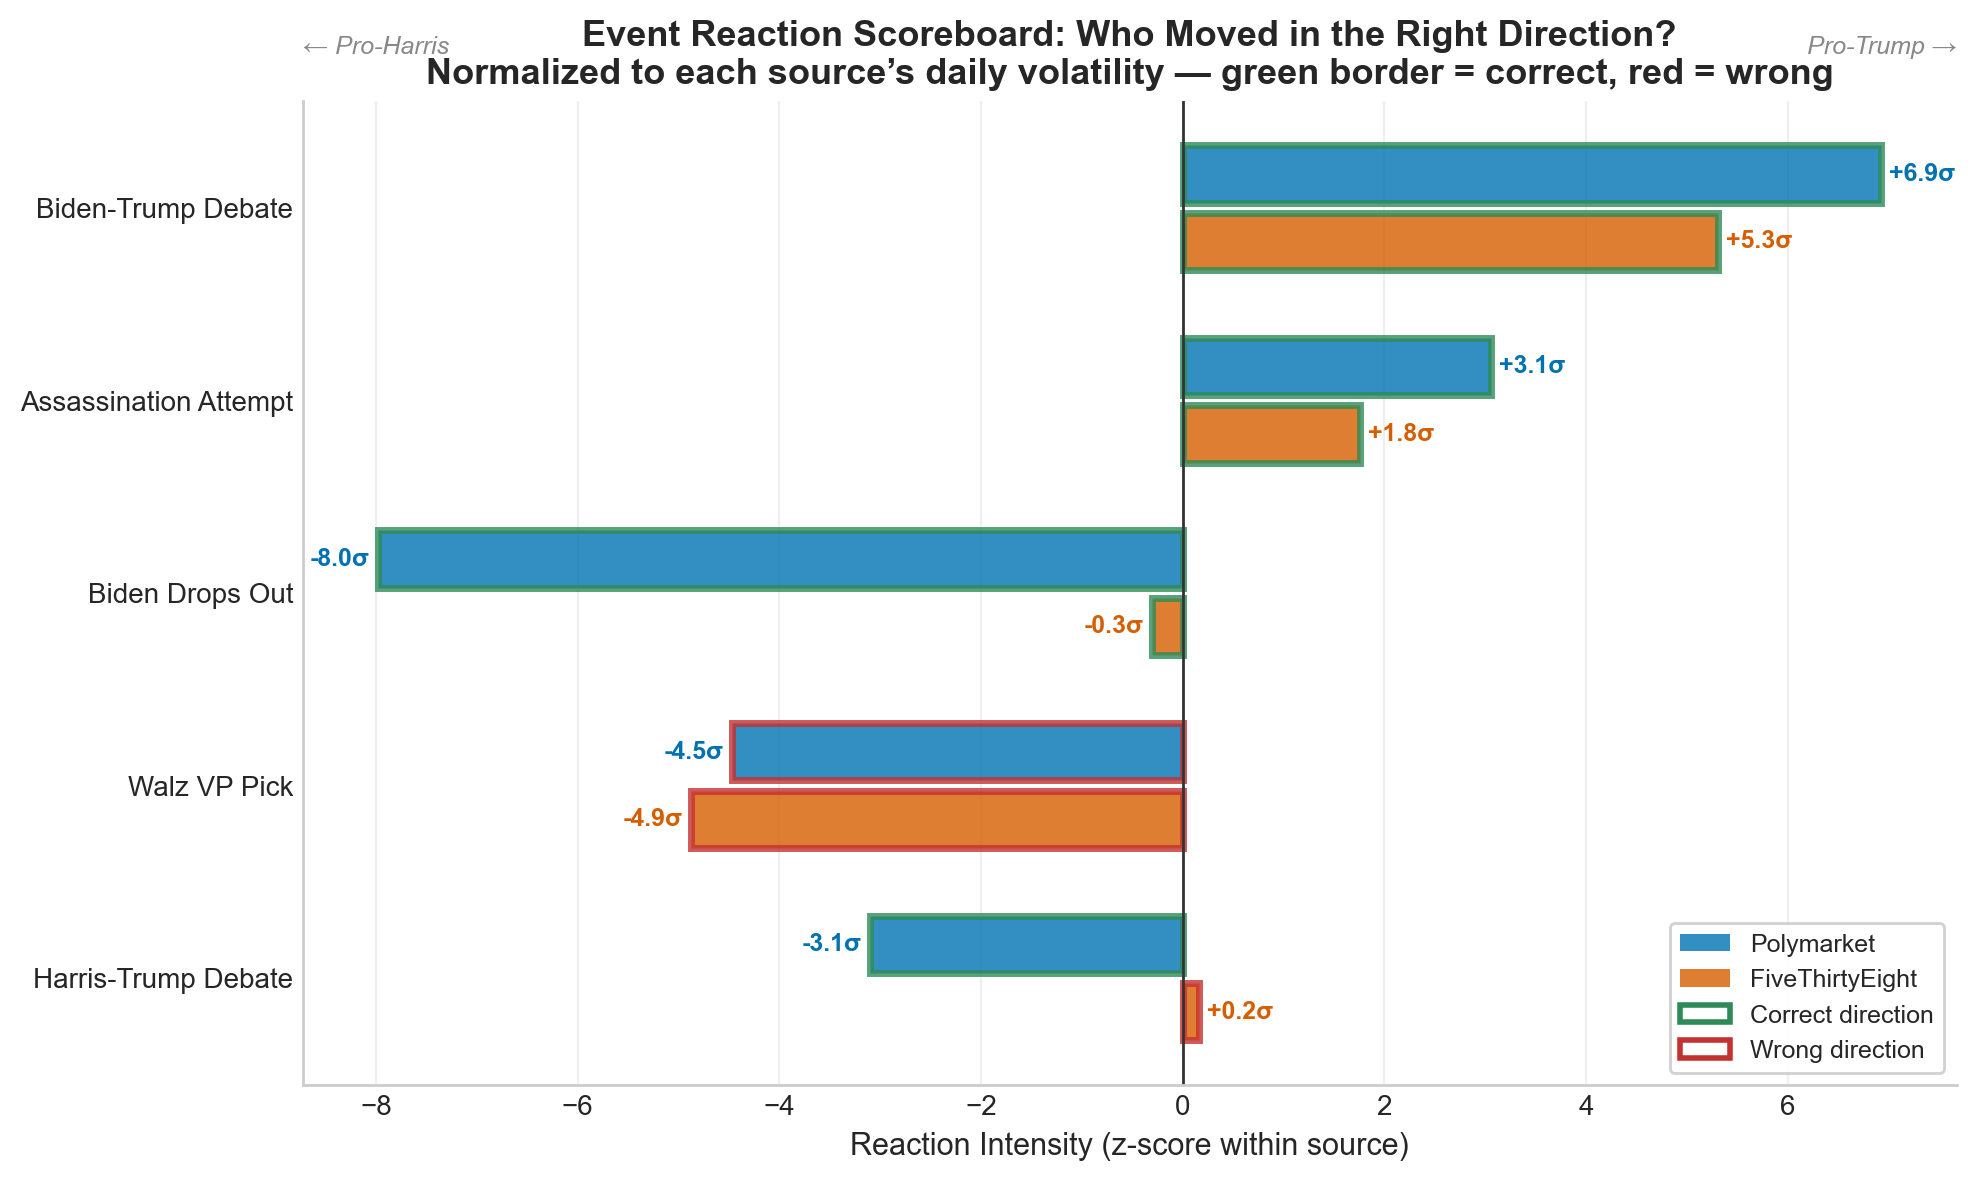
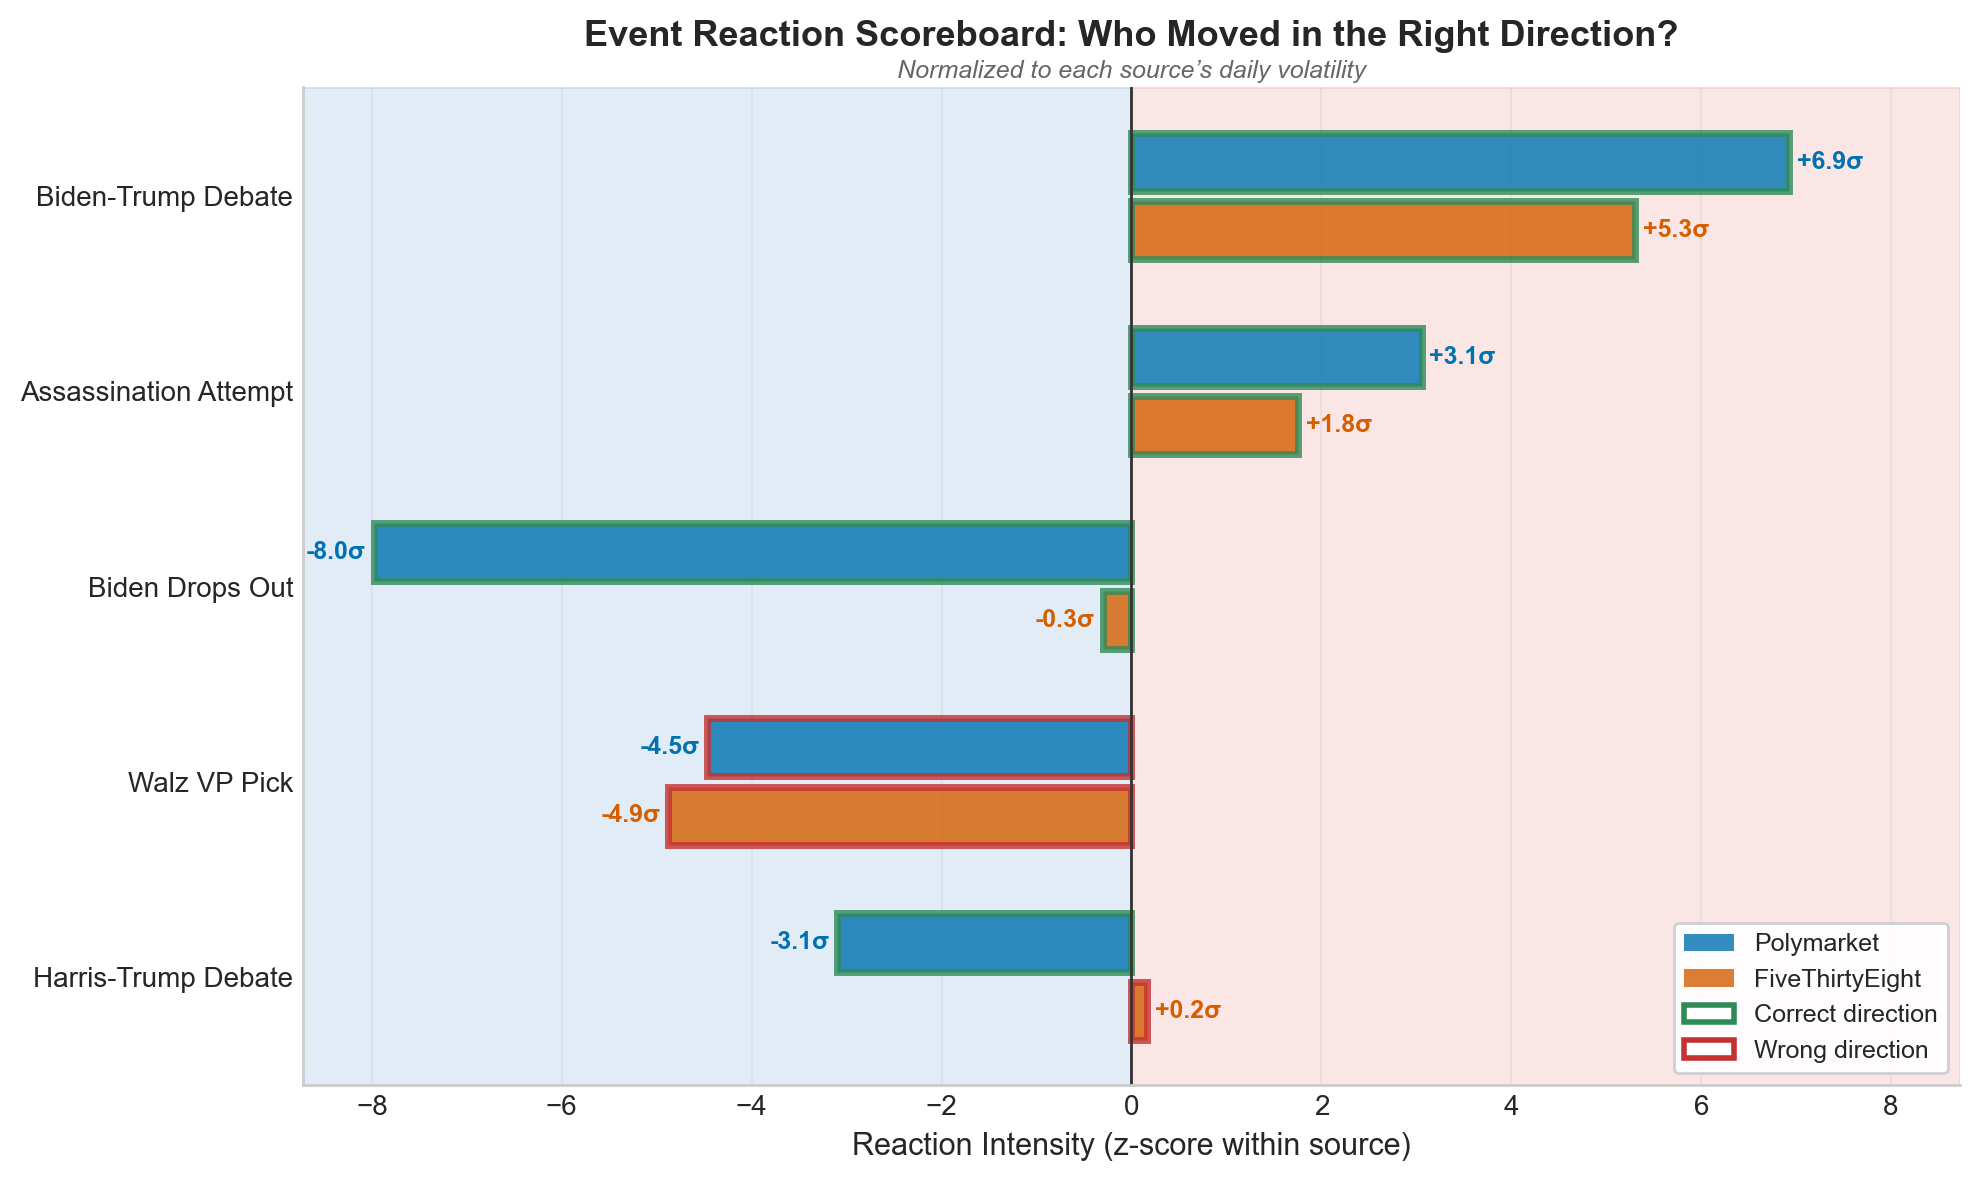
improve event scorecard with blue shade on the left and red on the right

diff --git a/src/visualize/event_plots.py b/src/visualize/event_plots.py
@@ -15,7 +15,6 @@ from pathlib import Path
 
 import matplotlib.dates as mdates
 import matplotlib.pyplot as plt
-import matplotlib.ticker as mticker
 import numpy as np
 import pandas as pd
 
@@ -206,25 +205,27 @@ def plot_reaction_scoreboard(summary):
                     ha=ha, va="center", fontsize=9, color=color,
                     fontweight="bold")
 
+    # Background shading: blue (pro-Harris) left, red (pro-Trump) right
+    x_lo, x_hi = ax.get_xlim()
+    x_abs = max(abs(x_lo), abs(x_hi))
+    ax.axvspan(-x_abs, 0, color="#1565C0", alpha=0.12, zorder=0)
+    ax.axvspan(0, x_abs, color="#E53935", alpha=0.12, zorder=0)
+    ax.set_xlim(-x_abs, x_abs)
+
     # Zero line
     ax.axvline(0, color="#333333", linewidth=1, zorder=2)
-
-    # Direction labels
-    ax.text(ax.get_xlim()[1], -0.8, "Pro-Trump \u2192",
-            ha="right", fontsize=9, color="#888888", fontstyle="italic")
-    ax.text(ax.get_xlim()[0], -0.8, "\u2190 Pro-Harris",
-            ha="left", fontsize=9, color="#888888", fontstyle="italic")
 
     ax.set_yticks(y)
     ax.set_yticklabels(event_names)
     ax.invert_yaxis()
     ax.set_xlabel("Reaction Intensity (z-score within source)")
     ax.set_title(
-        "Event Reaction Scoreboard: Who Moved in the Right Direction?\n"
-        "Normalized to each source\u2019s daily volatility \u2014 "
-        "green border = correct, red = wrong",
-        fontweight="bold",
+        "Event Reaction Scoreboard: Who Moved in the Right Direction?",
+        fontweight="bold", pad=15,
     )
+    ax.text(0.5, 1.005, "Normalized to each source\u2019s daily volatility",
+            transform=ax.transAxes, ha="center", va="bottom",
+            fontsize=9, color="#666666", fontstyle="italic")
 
     # Legend
     from matplotlib.patches import Patch
